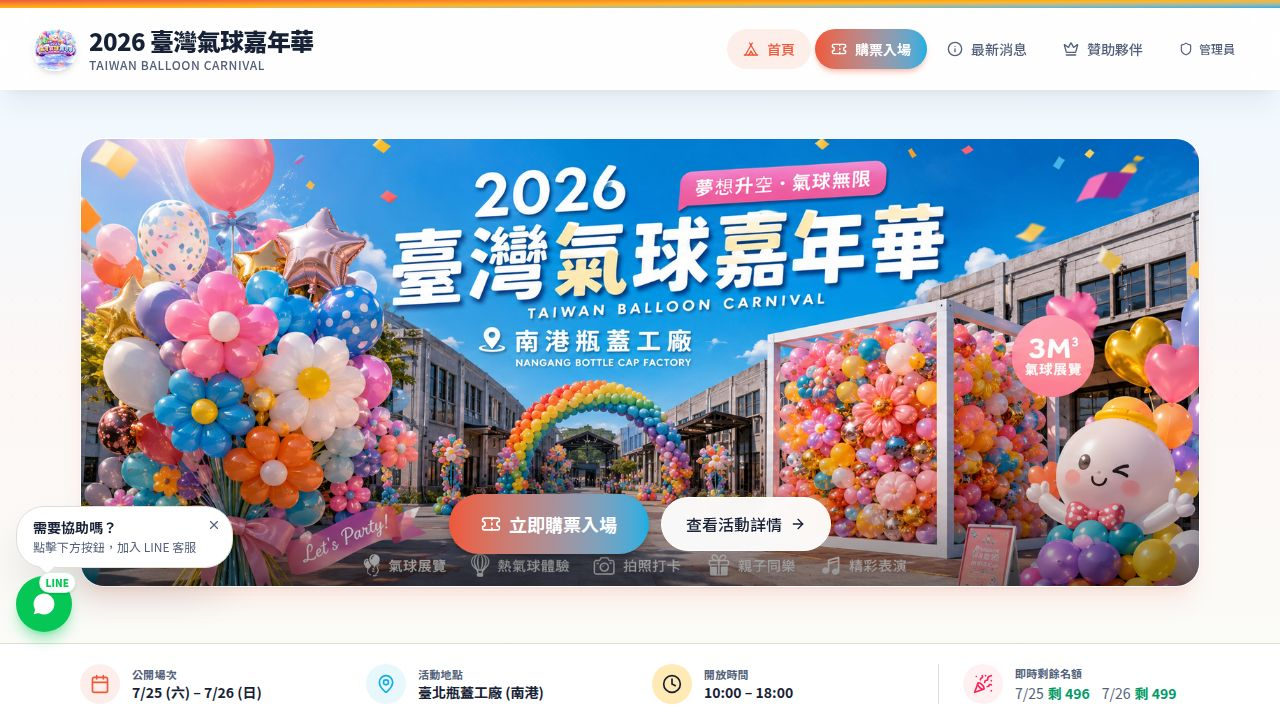
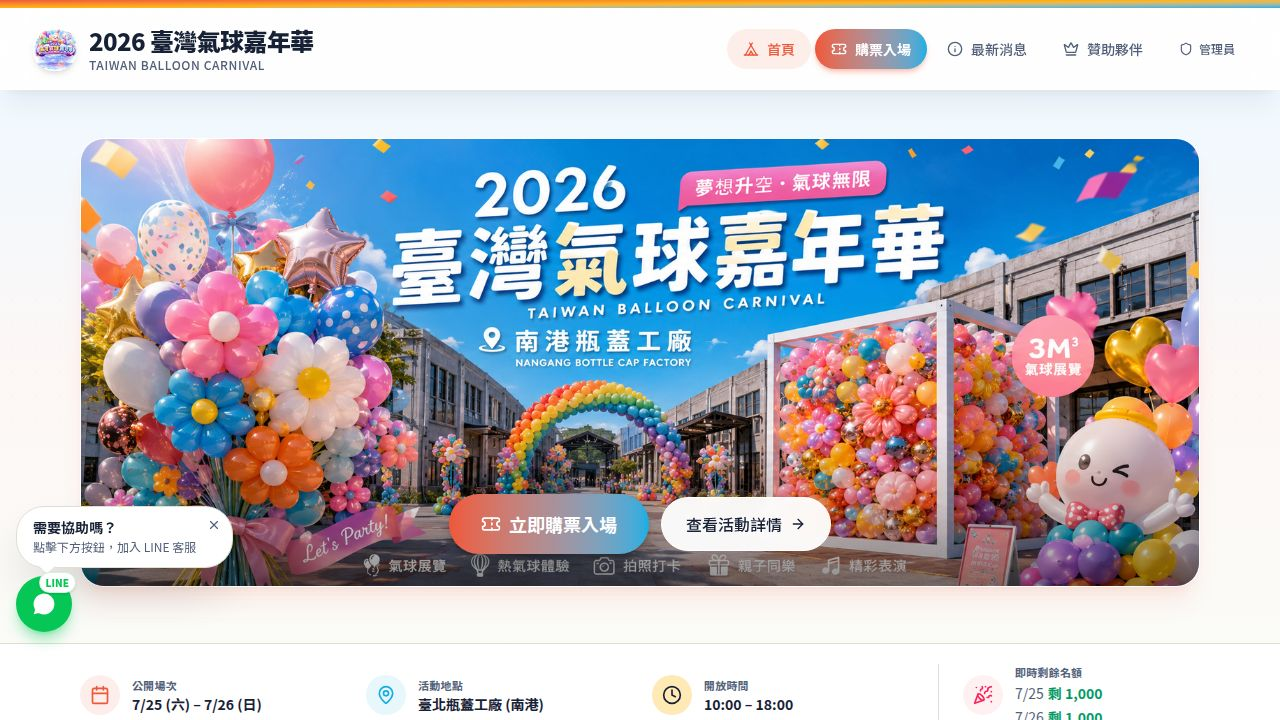
Stop automatically issuing invoices upon successful payment
Remove automatic invoice issuance from the payment completion process, enabling manual batch invoicing via the admin dashboard and activating production ECPay invoicing.

Replit-Commit-Author: Agent
Replit-Commit-Session-Id: 9969f01a-d792-498c-b759-dbe3edce4d7d
Replit-Commit-Checkpoint-Type: full_checkpoint
Replit-Commit-Event-Id: 80ce24ba-b8af-4e21-824f-0a1281aa877e
Replit-Commit-Screenshot-Url: https://storage.googleapis.com/screenshot-production-us-central1/9ae51cab-ce5e-493a-9c99-0b37e6dc3948/9969f01a-d792-498c-b759-dbe3edce4d7d/2Ae8UWi
Replit-Helium-Checkpoint-Created: true

diff --git a/artifacts/api-server/src/routes/payments.ts b/artifacts/api-server/src/routes/payments.ts
@@ -549,10 +549,11 @@ export async function markPaymentPaid(
     didTransitionToPaid = true;
   });
   if (didTransitionToPaid) {
-    // Fire-and-forget invoice issuance — failures should not roll back payment.
-    issueInvoiceForPayment(paymentRef).catch((err) => {
-      logger.error({ err, paymentRef }, "[ECPay Invoice] async issuance failed");
-    });
+    // NOTE: invoices are intentionally NOT auto-issued on payment. The buyer's
+    // invoice preferences are recorded (invoicesTable row stays "pending") and
+    // an admin issues them manually/in batches from the 發票管理 page
+    // (POST /payments/invoices/:ref/retry). This avoids issuing real e-invoices
+    // automatically and lets staff review orders before issuing.
     // Fire-and-forget Slack purchase notification.
     notifyPurchaseForPaymentRef(paymentRef).catch((err) => {
       logger.error({ err, paymentRef }, "[Slack] purchase notification lookup failed");

diff --git a/.agents/memory/payment-entry-lifecycle.md b/.agents/memory/payment-entry-lifecycle.md
@@ -17,8 +17,13 @@ For paid orders the buyer's confirmation (which carries the QR) must fire on the
 **Why:** Sending a valid entry QR before payment lets an unpaid buyer present a "購票成功" ticket.
 
 ## Paid transition must be atomic + idempotent
-The status flip to `paid` and all downstream side effects (invoice issuance, Slack notify, confirmation email) must run exactly once per order. Use a conditional `UPDATE ... WHERE status <> 'paid'` and only fire side effects when it actually changed a row.
+The status flip to `paid` and all downstream side effects (Slack notify, confirmation email) must run exactly once per order. Use a conditional `UPDATE ... WHERE status <> 'paid'` and only fire side effects when it actually changed a row.
 **Why:** NewebPay sends both a server notify AND a browser return; Stripe sends webhook + a client-poll confirm fallback; bank transfer adds a manual admin confirm. Several can race for the same order.
+
+## E-invoices are NOT auto-issued on payment — admins issue them manually/in batches
+The paid-transition records the buyer's invoice preferences (an `invoicesTable` row stays `status='pending'`) but deliberately does NOT call ECPay to issue the e-invoice. Staff issue invoices from the admin 發票管理 page — per-order「開立發票」or「批量開立」, both hitting `POST /payments/invoices/:ref/retry` (editor-gated), which calls `issueInvoiceForPayment`.
+**Why:** Organizer wants to review orders before issuing real government e-invoices, and avoid auto-issuing the moment payment lands. (Earlier the paid-transition fire-and-forget auto-issued.)
+**How to apply:** Do NOT re-add an `issueInvoiceForPayment` call inside the paid-transition (`markPaymentPaid`). Keep recording the pending invoice row at `/payments/initiate` so the manual/batch flow has data. `issueInvoiceForPayment` must stay referenced only by the retry endpoint. Production vs test issuance is decided purely by whether `ECPAY_INVOICE_HASH_KEY` (+ MERCHANT_ID/HASH_IV) is set; unset = ECPay stage/sandbox (test merchant [phone redacted]), set = real einvoice.ecpay.com.tw.
 
 ## Every method funnels through one paid-transition
 NewebPay, Stripe, and the admin bank-transfer confirm all call the same paid-transition function, so they share invoice + Slack + email behavior and the idempotency guard. Bank transfer has no automatic callback — it is confirmed manually from the admin dashboard's "待確認匯款" list (editor role).